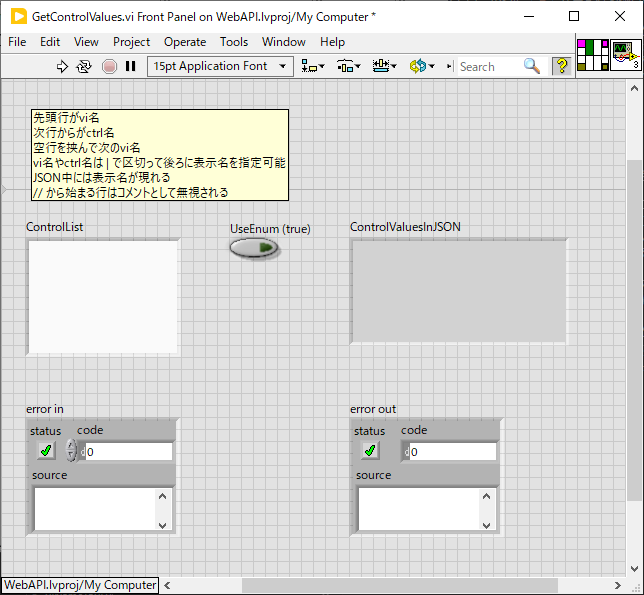
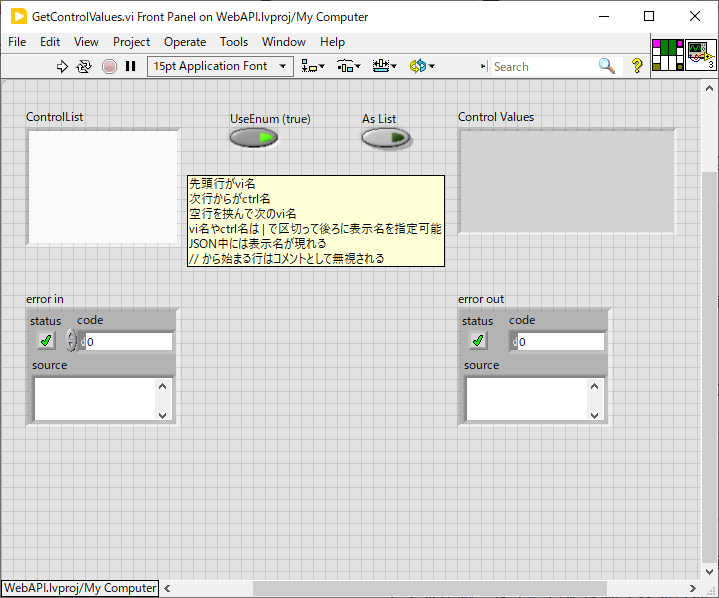
`GetControlValues` に `As List` オプションを追加した

diff --git a/lib/SetGetControlValue/Readme.md b/lib/SetGetControlValue/Readme.md
@@ -21,7 +21,6 @@ Lib/SetGetControlValue
     - [GetControlValues.vi](#getcontrolvaluesvi)
     - [VINameToVI.vi](#vinametovivi)
   - [技術的な話](#技術的な話)
-  - [TODO](#todo)
 
 概要
 --
@@ -311,11 +310,16 @@ JSON には大雑把にプリミティブデータ、配列、オブジェクト
   - VI 名にアプリケーション名（プロジェクト名）を含めることができ、その場合にはこの端子は無視される
   - [アプリケーションとVIの関係についてはこちらを参照](#アプリケーションとviの関係)
 - `UseEnum (true)` : `Enum` や `Ring` コントロールの値を文字列ではなく数値として得たい場合には `false` を指定する
-- `ControlValuesInJSON` : 読み出されたコントロール値がネストした JSON オブジェクトとして得られる
+- `As List` : 読みだされた値を JSON として返すか(false)、そのまま `SetControlValues.vi` に渡せる文字列として返すか(true)、を選択する
+- `Control Value` : 読み出された値
+  - `As List` が `false` ならコントロール値がネストした JSON オブジェクトとして得られる
   - オブジェクトのキーは VI 名あるいはその表示名
     - 要素はやはりオブジェクト
       - キーはコントロール名あるいはその表示名
       - 要素はコントロール値
+  - `As List` が `true` ならそのまま `SetControlValues.vi` に渡せる文字列として得られる
+    - 後にコントロールへ書き戻すのであればこちらが便利
+    - `As List` が `true` のとき、指定された「表示名」は無視される
 
 ### VINameToVI.vi
 
@@ -360,7 +364,3 @@ VI 名から `VI reference` を得る。
   - 驚くべきことに(?)、`GetControlIndexByName` で得られるコントロールインデックスは `Controls[]` 内のインデックスじゃないので役に立たない
 - アプリケーション名や VI 名、コントロール名をメモ化して、二度目からは検索の必要をなくすと効率アップを図れるのだけれど、VI を開きなおしたり、コントロールを追加・削除したときにメモを初期化する手段を用意するなど考えるとちょっと面倒？
   - あまり効率が問題になる使い方はしないと割り切ってこのまま行こう
-
-TODO
---
-- `GetControlValues.vi` で JSON 形式ではなく、そのまま `SetControlValues.vi` に与えられる形式でも結果を得られると便利かもしれない

diff --git a/Readme.md b/Readme.md
@@ -110,4 +110,4 @@ LabVIEW メタプログラミングの勧め
   - 未保存の `Untitled 1.vi` のような VI に対しては VI のリファレンスを取れない。これが原因で [`utilities/SettingManager.vi`](utilities/#settingmanagervi) がエラーを吐くのを抑制した。エラーの生じた VI の下にはコントロールが表示されず空になる。
   - [lib/SetGetControlValue/#クローン V Iについて](lib/SetGetControlValue/#クローン-VI-について) にてクローン VI に対しては VI リファレンスを取る手段が提供されていないという記載を LabVIEW ヘルプに発見したので追記した
   - [`utilities/SettingManager.vi`](utilities/#settingmanagervi) コントロールのリロードボタンにショートカットキー F5 を割り当てた
-
+  - [`GetControlValues.vi`](lib/SetGetControlValue#getcontrolvaluesvi) に `As List` オプションを追加した
